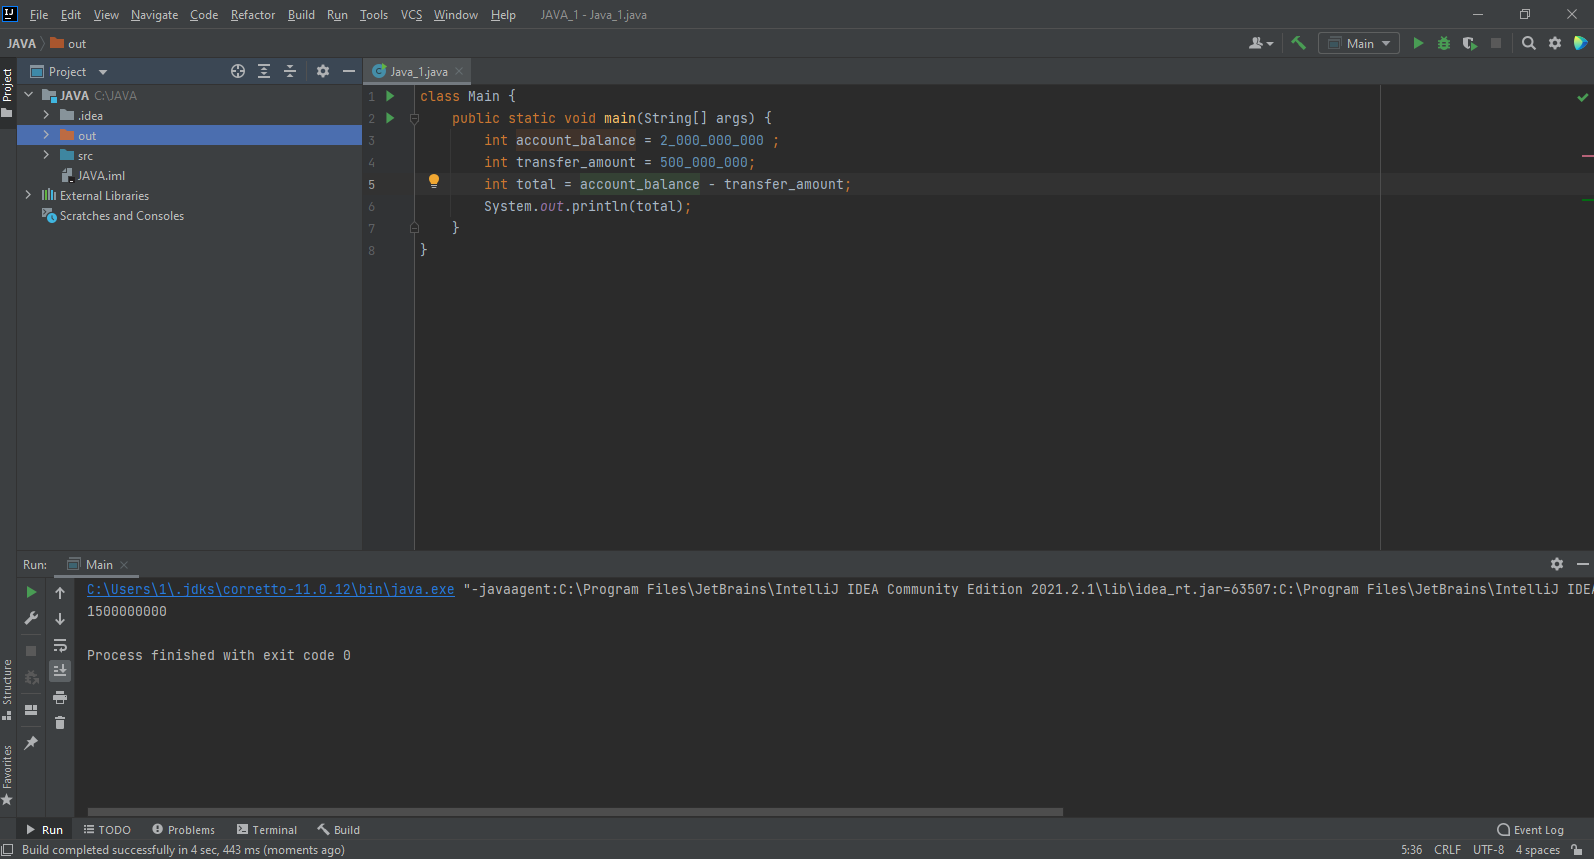
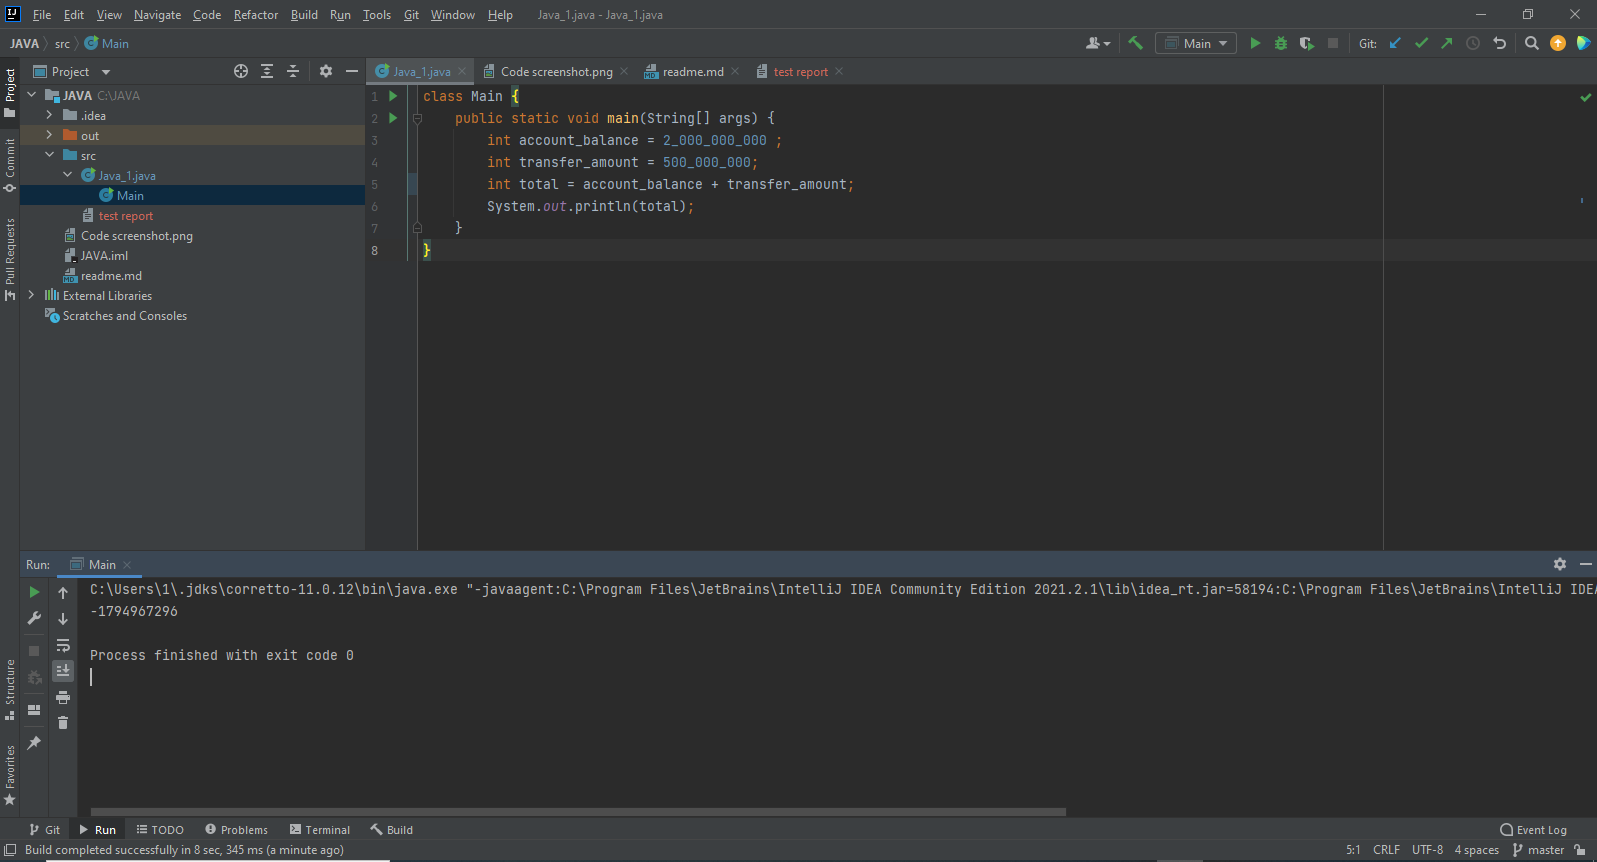
test report

diff --git a/src/Java_1.java b/src/Java_1.java
@@ -2,7 +2,7 @@ class Main {
     public static void main(String[] args) {
         int account_balance = 2_000_000_000 ;
         int transfer_amount = 500_000_000;
-        int total = account_balance - transfer_amount;
+        int total = account_balance + transfer_amount;
         System.out.println(total);
     }
 }
